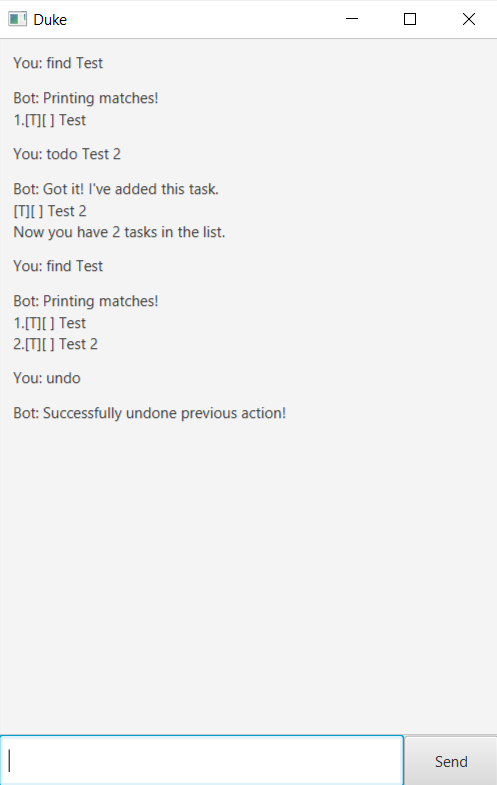
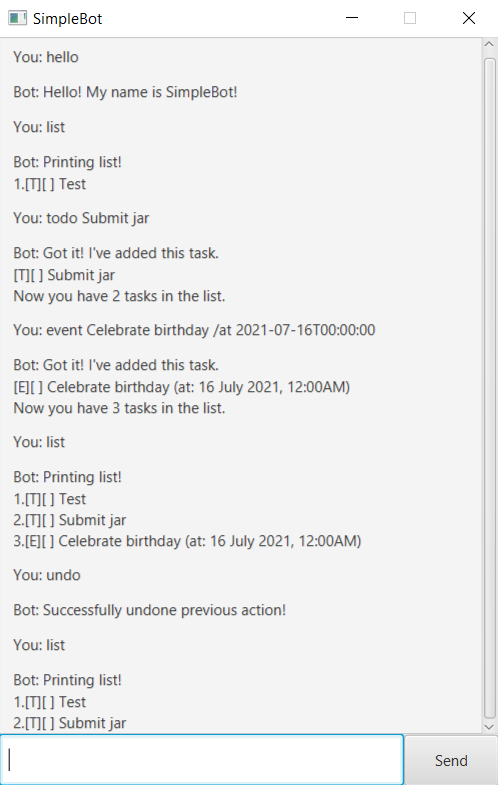
Added final test case

diff --git a/src/main/java/com/weiliang/Duke.java b/src/main/java/com/weiliang/Duke.java
@@ -12,7 +12,6 @@ public class Duke {
     private TaskList tasks;
     private Parser parser;
 
-    private boolean isRunning;
     private String name;
 
     /**
@@ -34,6 +33,15 @@ public class Duke {
     }
 
     /**
+     * Returns the name the artificial intelligence.
+     *
+     * @return The name.
+     */
+    public String getName() {
+        return name;
+    }
+
+    /**
      * Returns a {@link String} response after processing is done by the artificial intelligence.
      *
      * @param input Input from user.
@@ -49,7 +57,6 @@ public class Duke {
             return "Hello! My name is " + name + "!";
         }
         if (input.equalsIgnoreCase("bye")) {
-            isRunning = false;
             storage.storeFile(tasks);
             return "Bye. Hope to see you again soon!";
         }

diff --git a/src/main/java/com/weiliang/Main.java b/src/main/java/com/weiliang/Main.java
@@ -29,9 +29,11 @@ public class Main extends Application {
         try {
             FXMLLoader fxmlLoader = new FXMLLoader(Main.class.getResource("/view/MainWindow.fxml"));
 
+            // Set up scene information
             AnchorPane ap = fxmlLoader.load();
             Scene scene = new Scene(ap);
-            stage.setTitle("Duke");
+            stage.setTitle(duke.getName());
+            stage.setResizable(false);
             stage.setScene(scene);
 
             fxmlLoader.<MainWindow>getController().setDuke(duke);

diff --git a/src/test/java/com/weiliang/task/EventTest.java b/src/test/java/com/weiliang/task/EventTest.java
@@ -1,0 +1,17 @@
+package com.weiliang.task;
+
+import com.weiliang.DukeException;
+import org.junit.jupiter.api.Test;
+
+import static org.junit.jupiter.api.Assertions.assertEquals;
+
+public class EventTest {
+    
+    @Test
+    public void eventTest() throws DukeException {
+        Task task = new Event("test", "2000-01-01T23:59:59");
+        task.markComplete();
+        assertEquals(task.toString(), "[E][X] test (at: 01 January 2000, 11:59PM)");
+    }
+
+}

diff --git a/src/test/java/com/weiliang/task/DeadlineTest.java b/src/test/java/com/weiliang/task/DeadlineTest.java
@@ -11,7 +11,7 @@ public class DeadlineTest {
     public void deadlineTest() throws DukeException {
         Task task = new Deadline("test", "2000-01-01T23:59:59");
         task.markComplete();
-        assertEquals(task.toString(), "[T][X] test (by: 01 January 2000, 11:59PM)");
+        assertEquals(task.toString(), "[D][X] test (by: 01 January 2000, 11:59PM)");
     }
 
 }
